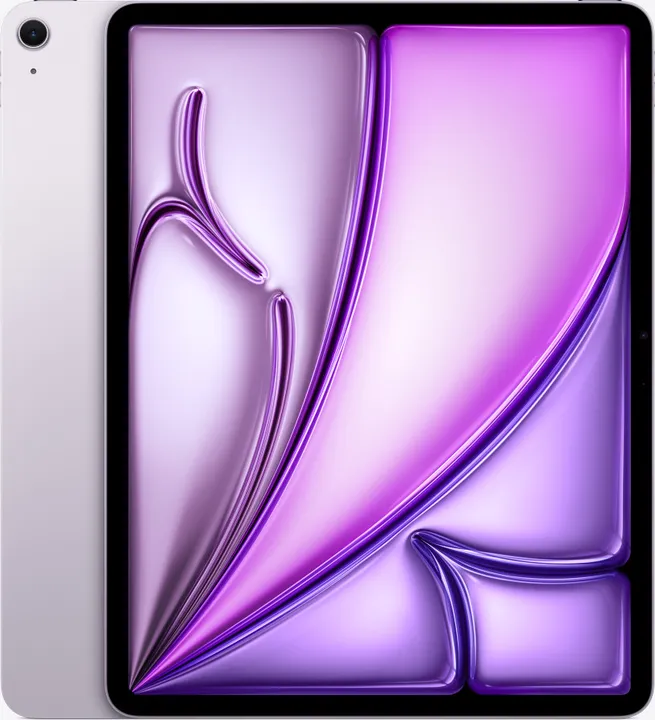
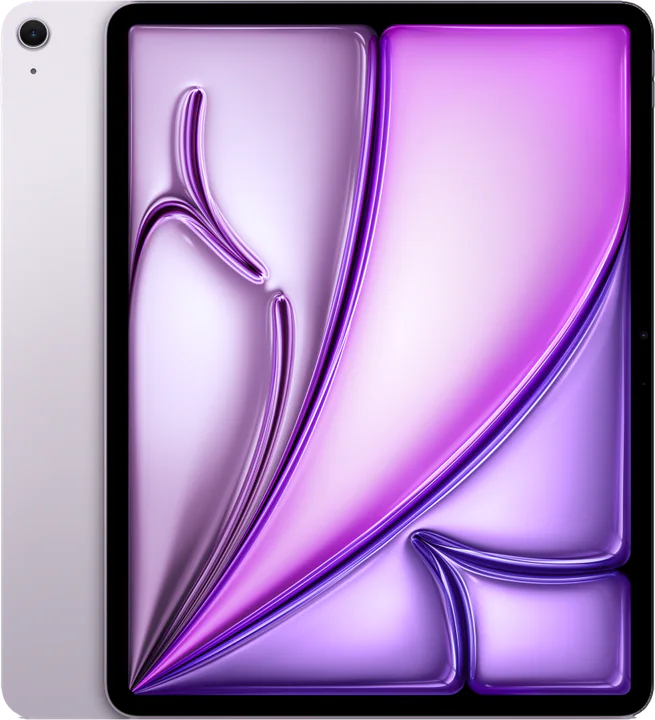
fix: zdjęcia katalogu — wycięte iPady i Maki, wersja w adresie, bez kolorów bez zdjęcia (#170)
* fix: usuń kolory Samsunga bez prawdziwego zdjęcia (Galaxy A17, A27)

Karta Galaxy A17 pokazywała rysunek zastępczy, bo domyślny kolor (czarny)
nie miał zdjęcia. Zostają tylko kolory ze zdjęciem producenta: A17 szary,
A27 5G czarny. Nowy test pilnuje, żeby każdy kolor w katalogu miał zdjęcie.

* fix: dodaj wersję do adresów zdjęć katalogu, żeby przeglądarki pobrały nowe

Pliki z /tech/* mają pamięć podręczną 30 dni, więc po podmianie zdjęć
Samsunga powracający goście nadal widzieli stare (białe tło, małe).
Adres zdjęcia dostaje ?v=<data źródła>; nowe zdjęcie = nowa data = nowy
adres. Test pilnuje formatu i istnienia pliku.

* fix: wytnij z tła zdjęcia iPadów i Maców w katalogu

26 zdjęć Apple (iPad, iPad Air, iPad mini, iPad Pro, MacBook Pro, Mac
Studio, Mac mini) miało jasne tło, więc na ciemnych kafelkach („Nowości”,
salon, katalog) wychodził jasny prostokąt. Apple nie udostępnia wersji
przezroczystych, więc tło wycięte z tych samych oficjalnych zdjęć
(jednolite #f5f5f7, bez obwódki), WebP z alfą 720 px. Data źródła
2026-11-20 zmienia adresy, więc przeglądarki pobiorą nowe pliki.

---------

Changed region(s): [[0.2137, 0.0, 1.0, 0.9778], [0.9466, 0.9778, 0.9771, 1.0]]

diff --git a/frontend/lib/tech/catalog/index.ts b/frontend/lib/tech/catalog/index.ts
@@ -11,8 +11,22 @@ import type { Accessory, Brand, Catalog, CatalogModel, Family, Kind, Quiz } from
 
 export * from "./types";
 
+/**
+ * Files under /tech/* are cached for 30 days (next.config publicFilesCache), so a photo replaced
+ * under the same name stayed old in returning visitors' browsers (Krystian 20.11, Samsung).
+ * The photo's source date goes into the URL: a new photo (new date) means a new address.
+ * Next 15+: allow the query in `images.localPatterns` (search: "?v=*") when upgrading.
+ */
+export function versionedSrc(src: string, date: string): string {
+  return `${src}?v=${date.replace(/-/g, "")}`;
+}
+
+function withImageVersions(models: CatalogModel[]): CatalogModel[] {
+  return models.map((m) => ({ ...m, images: m.images.map((i) => (i.src ? { ...i, src: versionedSrc(i.src, i.source.date) } : i)) }));
+}
+
 export const catalog: Catalog = {
-  models: [...(apple as CatalogModel[]), ...(samsung as CatalogModel[])],
+  models: withImageVersions([...(apple as CatalogModel[]), ...(samsung as CatalogModel[])]),
   families: families as Family[],
   accessories: accessories as Accessory[],
   quizzes: quizzes as Quiz[],

diff --git a/frontend/lib/tech/catalog/catalog.test.ts b/frontend/lib/tech/catalog/catalog.test.ts
@@ -10,6 +10,19 @@ describe("katalog: reguły danych (runda 18.11 v2 §0, §5)", () => {
     expect(catalogErrors(catalog)).toEqual([]);
   });
 
+  it("every colour has a real photo — no drawn placeholder on the page (Krystian 20.11)", () => {
+    const missing = catalog.models.flatMap((m) => m.colors.filter((c) => !m.images.some((i) => i.color === c.key)).map((c) => `${m.slug}/${c.key}`));
+    expect(missing).toEqual([]);
+  });
+
+  it("photo URLs carry the source date, and the file behind each one exists (30-day cache, Krystian 20.11)", () => {
+    for (const m of catalog.models)
+      for (const i of m.images.filter((x) => x.src)) {
+        expect(i.src, m.slug).toBe(`${i.src!.split("?")[0]}?v=${i.source.date.replace(/-/g, "")}`);
+        expect(fs.existsSync(path.resolve(__dirname, "../../../public", `.${i.src!.split("?")[0]}`)), i.src!).toBe(true);
+      }
+  });
+
   it("covers both brands and every department of the salons", () => {
     for (const brand of ["apple", "samsung"] as const) {
       expect(catalog.models.some((m) => m.brand === brand)).toBe(true);
